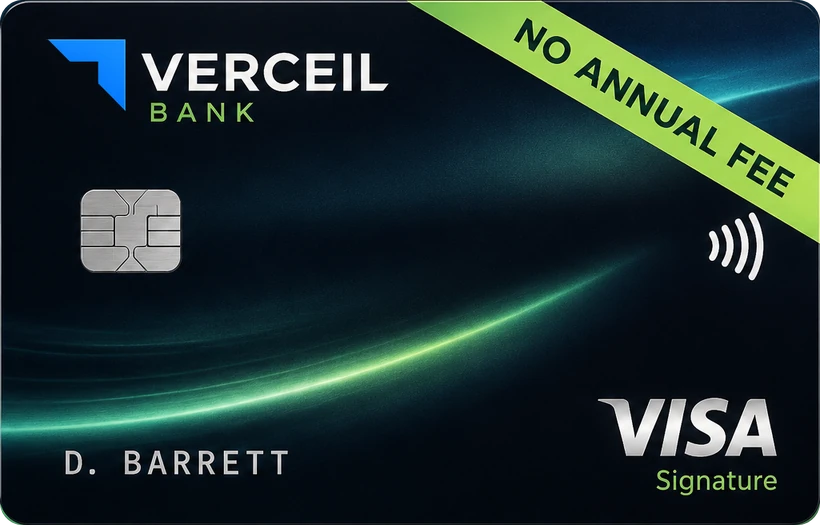
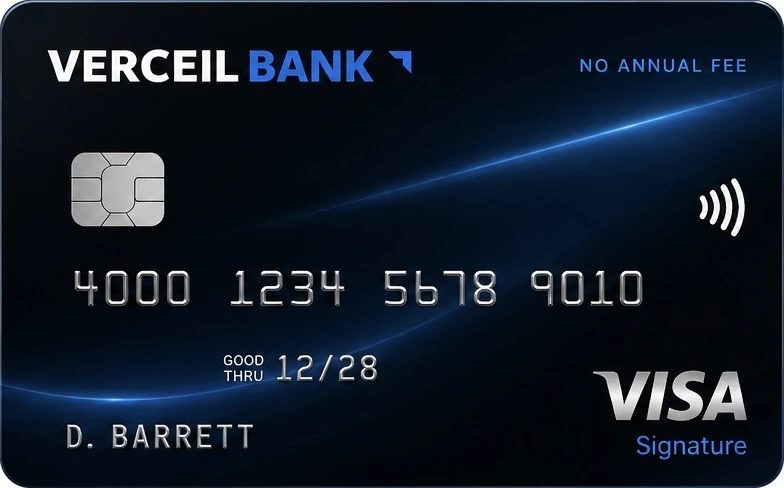
Swap in the blue card render for the credit card promo
Replaces the green/black card with the supplied blue one, which also
carries the card number, expiry and the brand lockup as the header draws
it — VERCEIL in white, BANK in blue, then the chevron — so the mark no
longer needs substituting the way the previous render's invented "V" did.

Cropped on the card face at (81,15)-(865,503). Bounds came from the blue
cast rather than luminance: the field reads blue at B-R around 55 while
the card face is neutral dark under 15, which separates them cleanly on
an image where both are dark. Corner radius measured at 30px.

Kept at its native 784x488 with no resampling — that is already 2.06x the
380px the card renders at, and the source is a JPEG, so a resize would
trade sharpness for nothing. 35KB.

The ratio moves from 1.5619 to 1.6066, so the CSS radius pair is
recalculated to 3.83%/6.15% to stay circular, and the img's width/height
follow. Bumped the asset query to v=2 since the file changed shape.

Claude-Session: https://claude.ai/code/session_0182LNF5TrhTNSNWbmPHvQ5y

diff --git a/index.css b/index.css
@@ -1220,15 +1220,15 @@ a { text-decoration: none; color: inherit; }
    The radius is repeated here because a box-shadow traces the border box, not
    the alpha: without it the soft shadow would show square corners behind a
    rounded card. It is given as a horizontal/vertical percentage pair so the
-   corner stays circular at any width — 3.41% of the width and 5.33% of the
-   height are the same number of pixels at this file's 1.5619 ratio, which a
+   corner stays circular at any width — 3.83% of the width and 6.15% of the
+   height are the same number of pixels at this file's 1.6066 ratio, which a
    single percentage (an ellipse on a non-square box) would not be. */
 .credit-card {
   display: block;
   width: 100%;
   max-width: 340px;
   height: auto;
-  border-radius: 3.41% / 5.33%;
+  border-radius: 3.83% / 6.15%;
   box-shadow: 0 12px 30px rgba(3, 10, 20, 0.45);
 }
 

diff --git a/index.html b/index.html
@@ -605,8 +605,8 @@
         <div class="promo-card card-promo-card">
 
           <div class="card-promo-art">
-            <img src="card-art.webp?v=1" class="credit-card"
-                 width="820" height="525" loading="lazy" decoding="async"
+            <img src="card-art.webp?v=2" class="credit-card"
+                 width="784" height="488" loading="lazy" decoding="async"
                  alt="Verceil Bank Visa Signature card, marked no annual fee.">
           </div>
 
